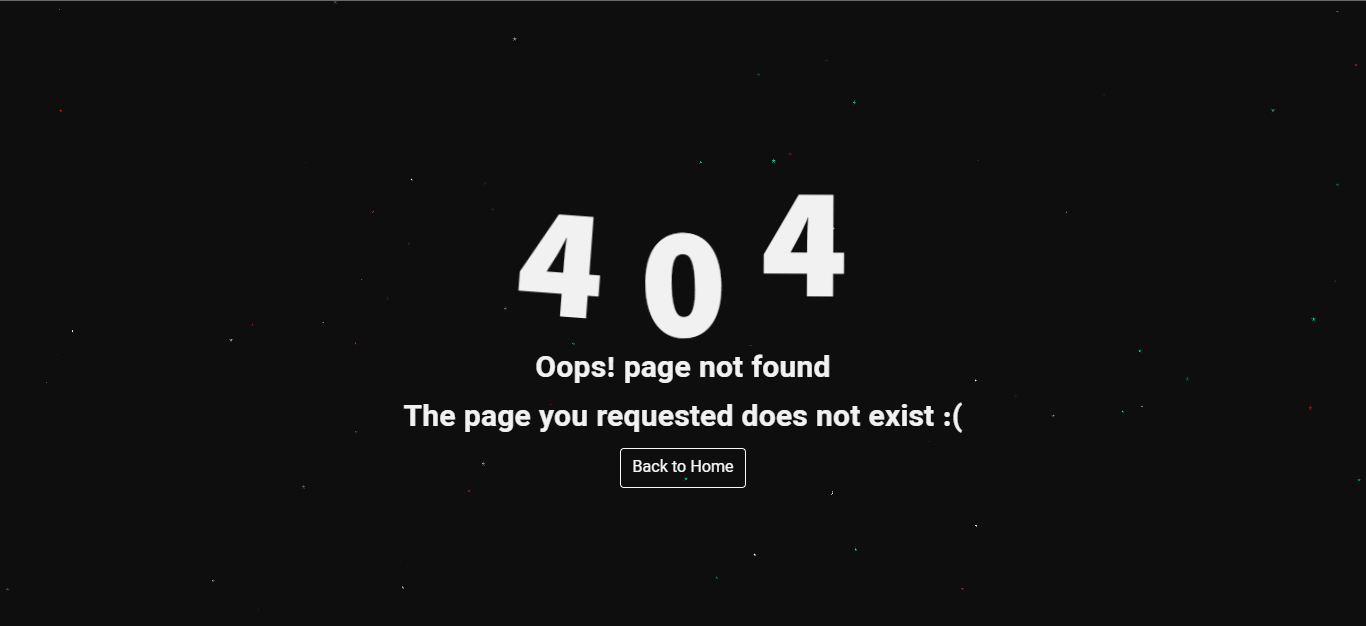
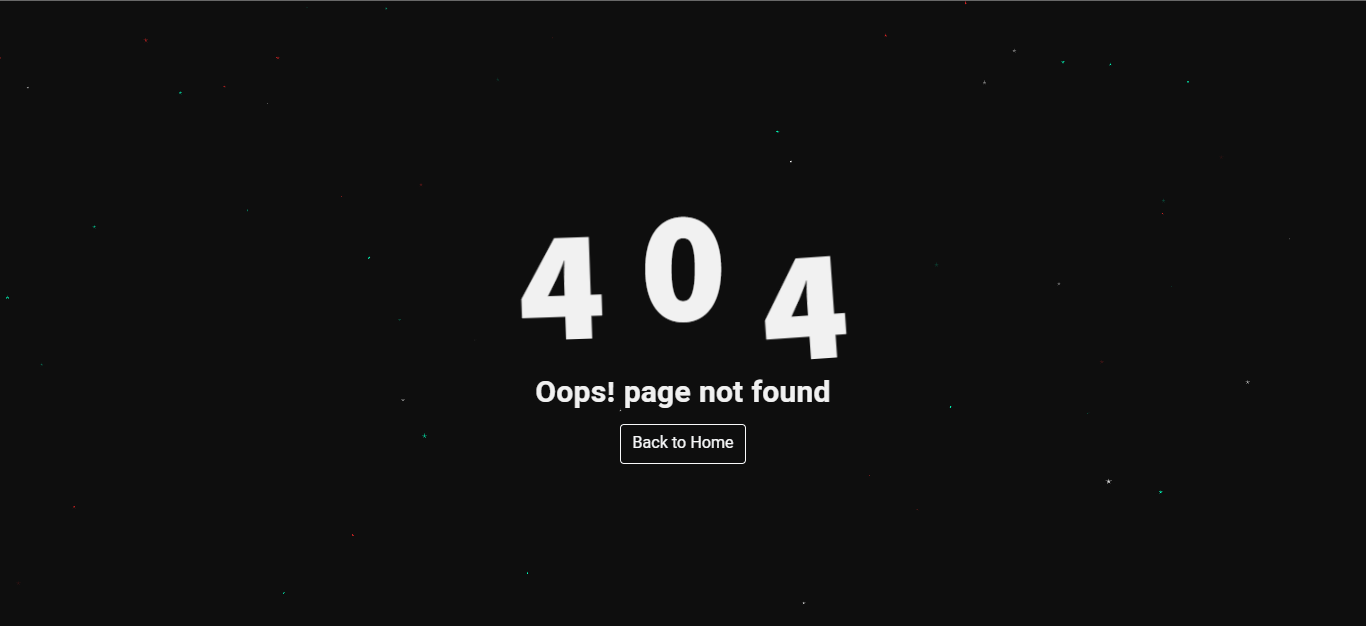
Update Page 404 Night sky

Changed region(s): [[0.2767, 0.3035, 0.7072, 0.7588]]

diff --git a/Fantasy/Night sky/assets/script.js b/Fantasy/Night sky/assets/script.js
@@ -1,11 +1,5 @@
 // Move the background by changing the mouse position
 let container = document.getElementById('particles-js');
-window.onmousemove = function (e) {
-    let x = -e.x / 5,
-        y = -e.y / 5;
-    container.style.right = x + 'px';
-    container.style.bottom = y + 'px';
-}
 /*Particle script*/
 particlesJS('particles-js', {
     'particles': {

diff --git a/Fantasy/Night sky/index.html b/Fantasy/Night sky/index.html
@@ -25,7 +25,6 @@
             <h1>4</h1>
         </div>
         <p>Oops! page not found</p>
-        <p>The page you requested does not exist :(</p>
         <a href="" class="btn">Back to Home</a>
     </div>
 </div>
